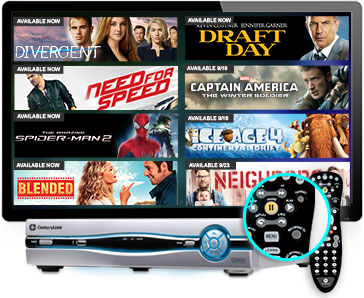
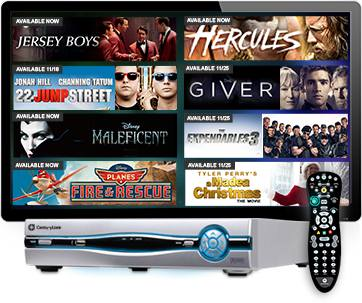
jump

diff --git a/prism/existing/index.html b/prism/existing/index.html
@@ -879,7 +879,7 @@
 				<div class="childWrap">
 					<h2>Prism On Demand is everything you love about the movies &ndash; and nothing you don&rsquo;t.</h2>
 					<h3>No long lines. No high-priced tickets.<br />No tall people sitting in front of you.</h3>
-					<p class="blurb">Watch what you want, when you want, with hundreds of hours of Prism On Demand programming. Access new DVD releases, free movie previews, karaoke, kids' programming and more. Check out hot new releases like <em>Divergent</em>, <em>Muppets Most Wanted</em>, and <em>Draft Day</em>.</p>
+					<p class="blurb">Watch what you want, when you want, with hundreds of hours of Prism On Demand programming. Access new DVD releases, free movie previews, karaoke, kids' programming and more. Check out hot new releases like <em>Million Dollar Arm</em>, <em>Mr. Peabody and Sherman</em> and <em>Live Die Repeat: Edge of Tomorrow</em>.</p>
 					<div class="price onDemand">New releases start at just $4.99 each | Additional titles are as low as $2.99 each</div>
 					<h3 style="font-size:14px;"><strong style="color:#ff6319;font-size:18px">Start watching movies now.</strong><br>
 					Follow these 3 easy steps to order movies On Demand.</h3>
